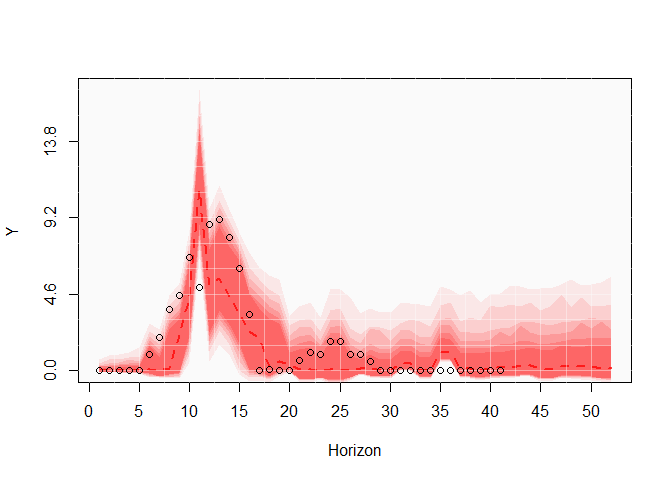
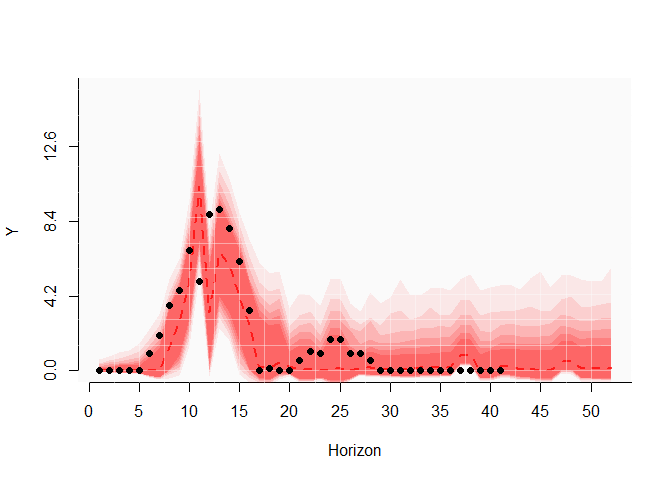
update readme

diff --git a/docs/README.md b/docs/README.md
@@ -47,9 +47,9 @@ test_mvforecast()
     #> 
     #> 
     #> Calculating CRPS against ixodes_vets_dat$ytest for both models (lower is better)
-    #>                     Min. X1st.Qu.    Median      Mean X3rd.Qu.     Max.
-    #> vets_crps       22.30106 80.79992 103.44327 128.51980 142.0079 276.6018
-    #> thief_vets_crps 17.58664 33.01005  38.96844  59.44784  53.7366 172.0430
+    #>                     Min. X1st.Qu.    Median     Mean X3rd.Qu.     Max.
+    #> vets_crps       22.30454 78.92754 104.64987 128.3975 141.7734 275.8718
+    #> thief_vets_crps 14.94983 28.27833  40.40699  59.1694  55.7548 171.8935
 
 We can explore how the different models produce forecast distributions by fitting each and plotting the resulting forecasts for a single plot
 
@@ -60,15 +60,7 @@ mod1 <- suppressWarnings(thief_rfsrc(y = ixodes_vets_dat$y_train,
 #> 
 #> Fitting a rfsrc model to series with frequency 52 
 #> 
-#> Fitting ensemble forecasts to series at frequency 26 
-#> 
-#> Fitting ensemble forecasts to series at frequency 13 
-#> 
-#> Fitting ensemble forecasts to series at frequency 4 
-#> 
-#> Fitting ensemble forecasts to series at frequency 2 
-#> 
-#> Fitting ensemble forecasts to series at frequency 1 
+#> Fitting ensemble forecasts to all remaining series using 5 cores
 #> 
 #> Reconciling original forecasts
 
@@ -100,31 +92,42 @@ mod3 <- suppressWarnings(thief_vets(y = ixodes_vets_dat$y_train,
 #> Fitting ensemble forecasts to all remaining series using 6 cores
 #> 
 #> Reconciling original forecasts
+```
 
-site <- 3
-par(mfrow=c(3,1))
+``` r
+site = 3
 plot_mv_preds(simulation = mod1[[site]], main = 'thief_rfsrc')
 points(as.vector(ixodes_vets_dat$y_test[,site]), col = 'black', pch = 16)
+```
+
+![](README-unnamed-chunk-4-1.png)
+
+``` r
 plot_mv_preds(simulation = mod2[[site]], main = 'thief_ensemble')
 points(as.vector(ixodes_vets_dat$y_test[,site]), col = 'black', pch = 16)
+```
+
+![](README-unnamed-chunk-5-1.png)
+
+``` r
 plot_mv_preds(simulation = mod3[[site]], main = 'thief_vets')
 points(as.vector(ixodes_vets_dat$y_test[,site]), col = 'black', pch = 16)
 ```
 
-![](README-unnamed-chunk-3-1.png)
+![](README-unnamed-chunk-6-1.png)
 
 Comparison of the CRPS is straightforward
 
 ``` r
 calc_crps(mod1, y_test = ixodes_vets_dat$y_test)
 #>    Min. 1st Qu.  Median    Mean 3rd Qu.    Max. 
-#>   14.12   30.18   35.35   47.28   53.55  144.79
+#>   9.769  31.450  34.437  46.238  51.283 144.940
 calc_crps(mod2, y_test = ixodes_vets_dat$y_test)
 #>    Min. 1st Qu.  Median    Mean 3rd Qu.    Max. 
-#>   14.27   30.37   34.21   49.51   46.51  169.60
+#>   17.12   29.50   33.79   49.79   47.25  169.56
 calc_crps(mod3, y_test = ixodes_vets_dat$y_test)
 #>    Min. 1st Qu.  Median    Mean 3rd Qu.    Max. 
-#>   11.90   29.42   39.62   58.35   51.98  170.52
+#>   11.24   29.93   42.04   58.50   52.12  169.86
 ```
 
 Reconciliation is clearly a powerful technique that can drastically improve forecasts for many types of time series. In the interest of transparency and robust software engineering, a `Docker` container has been built to ensure functions in this package can be used in future if dependencies make any drastic changes. You can install the container from `Dockerhub`. For example, using `singularity` this would read as:
